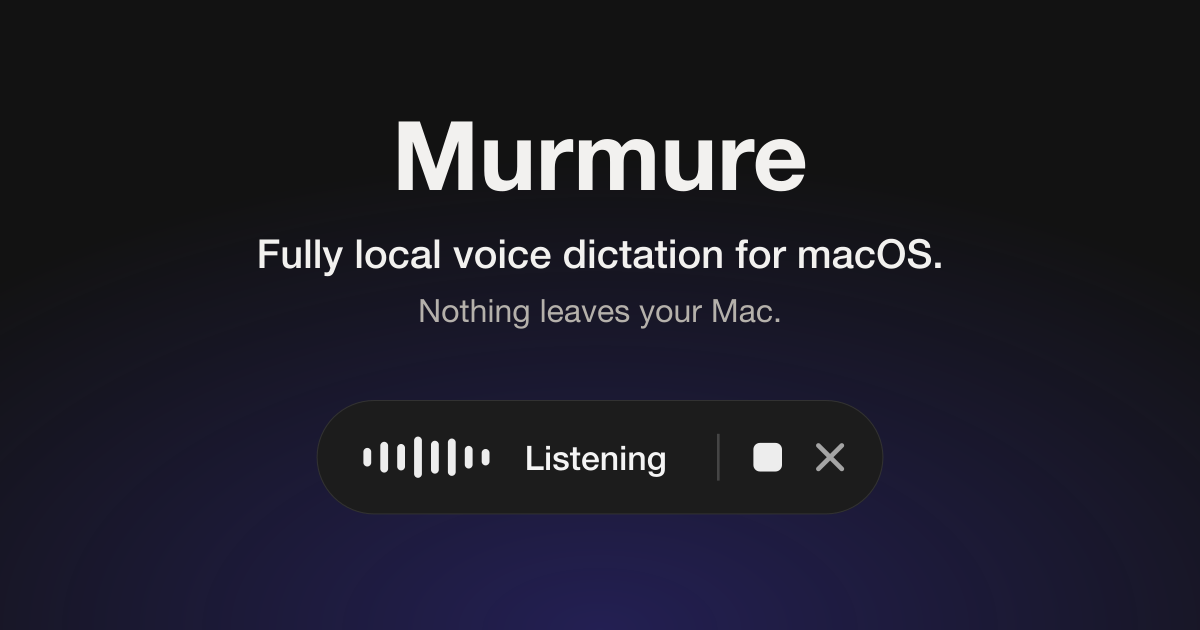
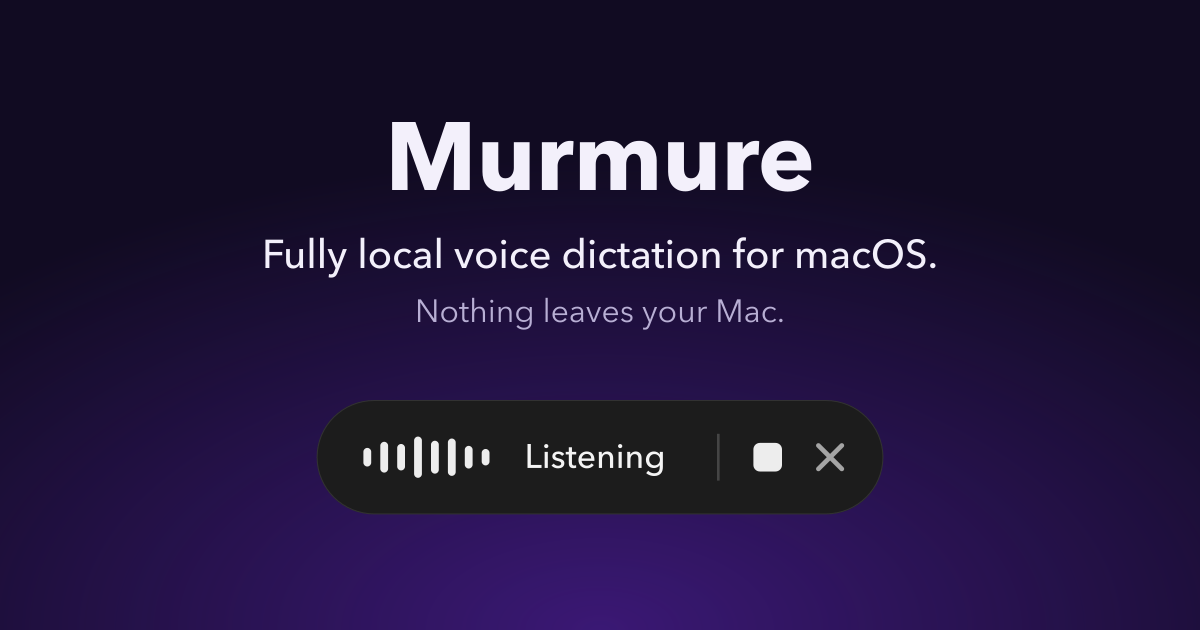
Landing : identité Ultraviolettes (violet de l'icône, comme Sillage) (#34)
- Fond sombre violet nuit, accents et bouton principal au dégradé de l'icône,
  titres en Avenir Next (police système pour le texte), comme Sillage.
- Icône de l'app dans l'en-tête et le haut de page ; halo et arcs en fond.
- Pastille détachée du fond par un liseré et un halo violets.
- Bloc « Aussi par Ultraviolettes » avec lien vers Sillage (FR/EN).
- Images de partage aux nouvelles couleurs.

diff --git a/site/src/styles/global.css b/site/src/styles/global.css
@@ -1,10 +1,14 @@
 @import 'tailwindcss';
 
-/* Couleurs suivant le thème du système : les variables changent en sombre,
-   les utilitaires Tailwind (bg-fond, text-texte…) restent les mêmes. */
+/* Identité des outils macOS Ultraviolettes (comme Sillage) : fond sombre teinté
+   de la couleur de l'app — violet pour Murmure —, titres en Avenir Next, texte
+   en police système. Les utilitaires Tailwind (bg-fond, text-texte…) lisent
+   ces variables. */
 @theme {
   --font-sans: -apple-system, BlinkMacSystemFont, 'SF Pro Text', 'Segoe UI', Roboto,
     'Helvetica Neue', Arial, sans-serif;
+  --font-display: 'Avenir Next', Avenir, -apple-system, BlinkMacSystemFont, 'Segoe UI',
+    sans-serif;
   --font-mono: ui-monospace, 'SF Mono', Menlo, Consolas, monospace;
 
   --color-fond: var(--fond);
@@ -18,28 +22,17 @@
 }
 
 :root {
-  color-scheme: light dark;
-  --fond: #faf9f7;
-  --surface: #ffffff;
-  --bord: #e4e1dc;
-  --texte: #1c1b1a;
-  --doux: #57534e;
-  --accent: #4338ca;
-  --accent-fort: #3730a3;
-  --sur-accent: #ffffff;
-}
-
-@media (prefers-color-scheme: dark) {
-  :root {
-    --fond: #121212;
-    --surface: #1c1c1e;
-    --bord: #33322f;
-    --texte: #f2f1ef;
-    --doux: #b5b1ab;
-    --accent: #a5b4fc;
-    --accent-fort: #c7d2fe;
-    --sur-accent: #1e1b4b;
-  }
+  color-scheme: dark;
+  --fond: #110b22;
+  --surface: #1a1231;
+  --bord: #2e2450;
+  --texte: #f3f0fb;
+  --doux: #b8afd4;
+  --accent: #a78bfa;
+  --accent-fort: #c4b5fd;
+  --sur-accent: #1b0f3a;
+  /* Dégradé de l'icône de l'app (scripts/icone.swift, variante 2). */
+  --marque: linear-gradient(135deg, #4338ca 0%, #6d28d9 60%, #5b21b6 100%);
 }
 
 @layer base {
@@ -54,6 +47,15 @@
   }
   body {
     @apply bg-fond text-texte font-sans antialiased;
+  }
+  h1,
+  h2,
+  h3 {
+    font-family: var(--font-display);
+  }
+  ::selection {
+    background: var(--accent);
+    color: var(--sur-accent);
   }
   :focus-visible {
     outline: 2px solid var(--accent);
@@ -78,4 +80,9 @@
   & a {
     @apply text-accent underline decoration-1 underline-offset-2 hover:text-accent-fort;
   }
+}
+
+/* Bouton principal aux couleurs de l'icône. */
+@utility bg-marque {
+  background-image: var(--marque);
 }

diff --git a/site/src/i18n/fr.ts b/site/src/i18n/fr.ts
@@ -168,6 +168,16 @@ export default {
       },
     ],
   },
+  family: {
+    title: 'Aussi par Ultraviolettes',
+    lead: 'Des outils macOS qui travaillent sur votre Mac, pas dans le cloud.',
+    sillage: {
+      name: 'Sillage',
+      text: 'Vos réunions laissent une trace : enregistrement, transcription et compte rendu. Sur votre Mac.',
+      link: 'Découvrir Sillage',
+      href: 'https://sillage-mac.vercel.app/',
+    },
+  },
   footer: {
     license: 'Licence MIT',
     by: 'Par',

diff --git a/site/src/i18n/en.ts b/site/src/i18n/en.ts
@@ -167,6 +167,16 @@ const en: typeof fr = {
       },
     ],
   },
+  family: {
+    title: 'Also by Ultraviolettes',
+    lead: 'macOS tools that work on your Mac, not in the cloud.',
+    sillage: {
+      name: 'Sillage',
+      text: 'Your meetings leave a trace: recording, transcription and meeting notes. On your Mac.',
+      link: 'Discover Sillage',
+      href: 'https://sillage-mac.vercel.app/en/',
+    },
+  },
   footer: {
     license: 'MIT license',
     by: 'By',
